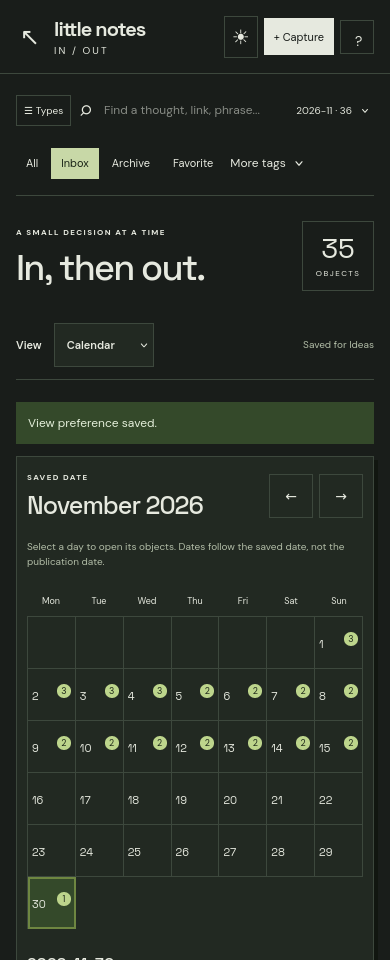
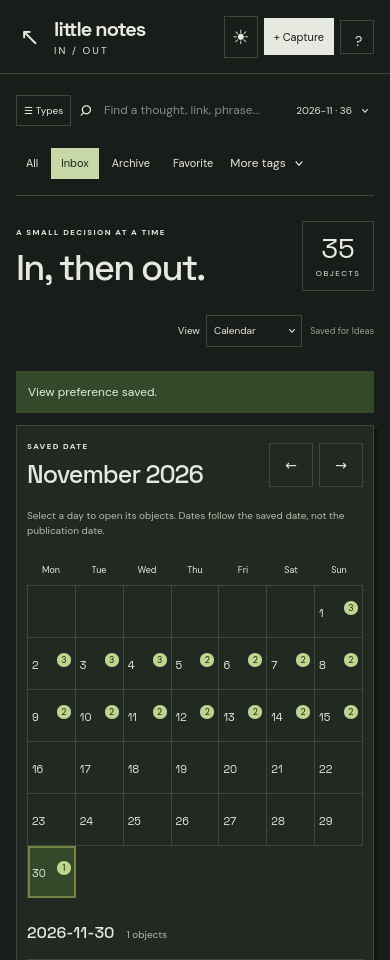
style(little-notes): make the view selector compact and discreet

diff --git a/ui/src/apps/little-notes/little-notes.css b/ui/src/apps/little-notes/little-notes.css
@@ -14,3 +14,5 @@
 .ln-sidebar>.ln-manage-button{margin-top:auto;border-top:1px solid var(--line);font-size:11px;color:#626956;min-height:44px;padding:12px;justify-content:flex-start}.ln-sidebar>.ln-manage-button>span{font-size:16px}.ln-sidebar-foot{margin-bottom:28px}.ln-theme-dark .ln-sidebar>.ln-manage-button{color:#b2bda7}@media(max-width:650px){.ln-sidebar>.ln-manage-button{order:initial;margin-left:0;margin-top:0}.ln-sidebar-foot{margin-bottom:16px}}
 @media(max-width:380px){.ln-header{padding:0 10px;gap:6px}.ln-brand{font-size:18px;white-space:nowrap;letter-spacing:-.8px}.ln-header-actions>button{white-space:nowrap;padding:8px 6px}.ln-header-actions{gap:4px}.ln-header-actions>.ln-theme-toggle{min-width:30px;padding:5px}.ln-home{font-size:20px!important}}
 .ln-row-image{display:block;width:88px;height:56px;object-fit:contain;margin:0 0 10px;background:var(--paper)}.ln-view-cards img{object-fit:contain;background:var(--paper)}
+/* The view control stays secondary to the collection. */
+.ln-view-bar{justify-content:flex-end;gap:10px;margin:0 0 15px;padding:4px 0 9px;border-bottom:0}.ln-view-bar label{gap:6px;font-size:10px;font-weight:400}.ln-view-bar select{min-height:30px;max-width:116px;padding:4px 20px 4px 7px;font-size:10px;background:transparent;border-color:var(--line)}.ln-view-bar>span{font-size:9px;opacity:.8;max-width:130px}.ln-theme-dark .ln-view-bar select{background:transparent}@media(max-width:650px){.ln-view-bar{gap:8px}.ln-view-bar select{min-height:32px;max-width:108px}.ln-view-bar>span{max-width:118px}}
